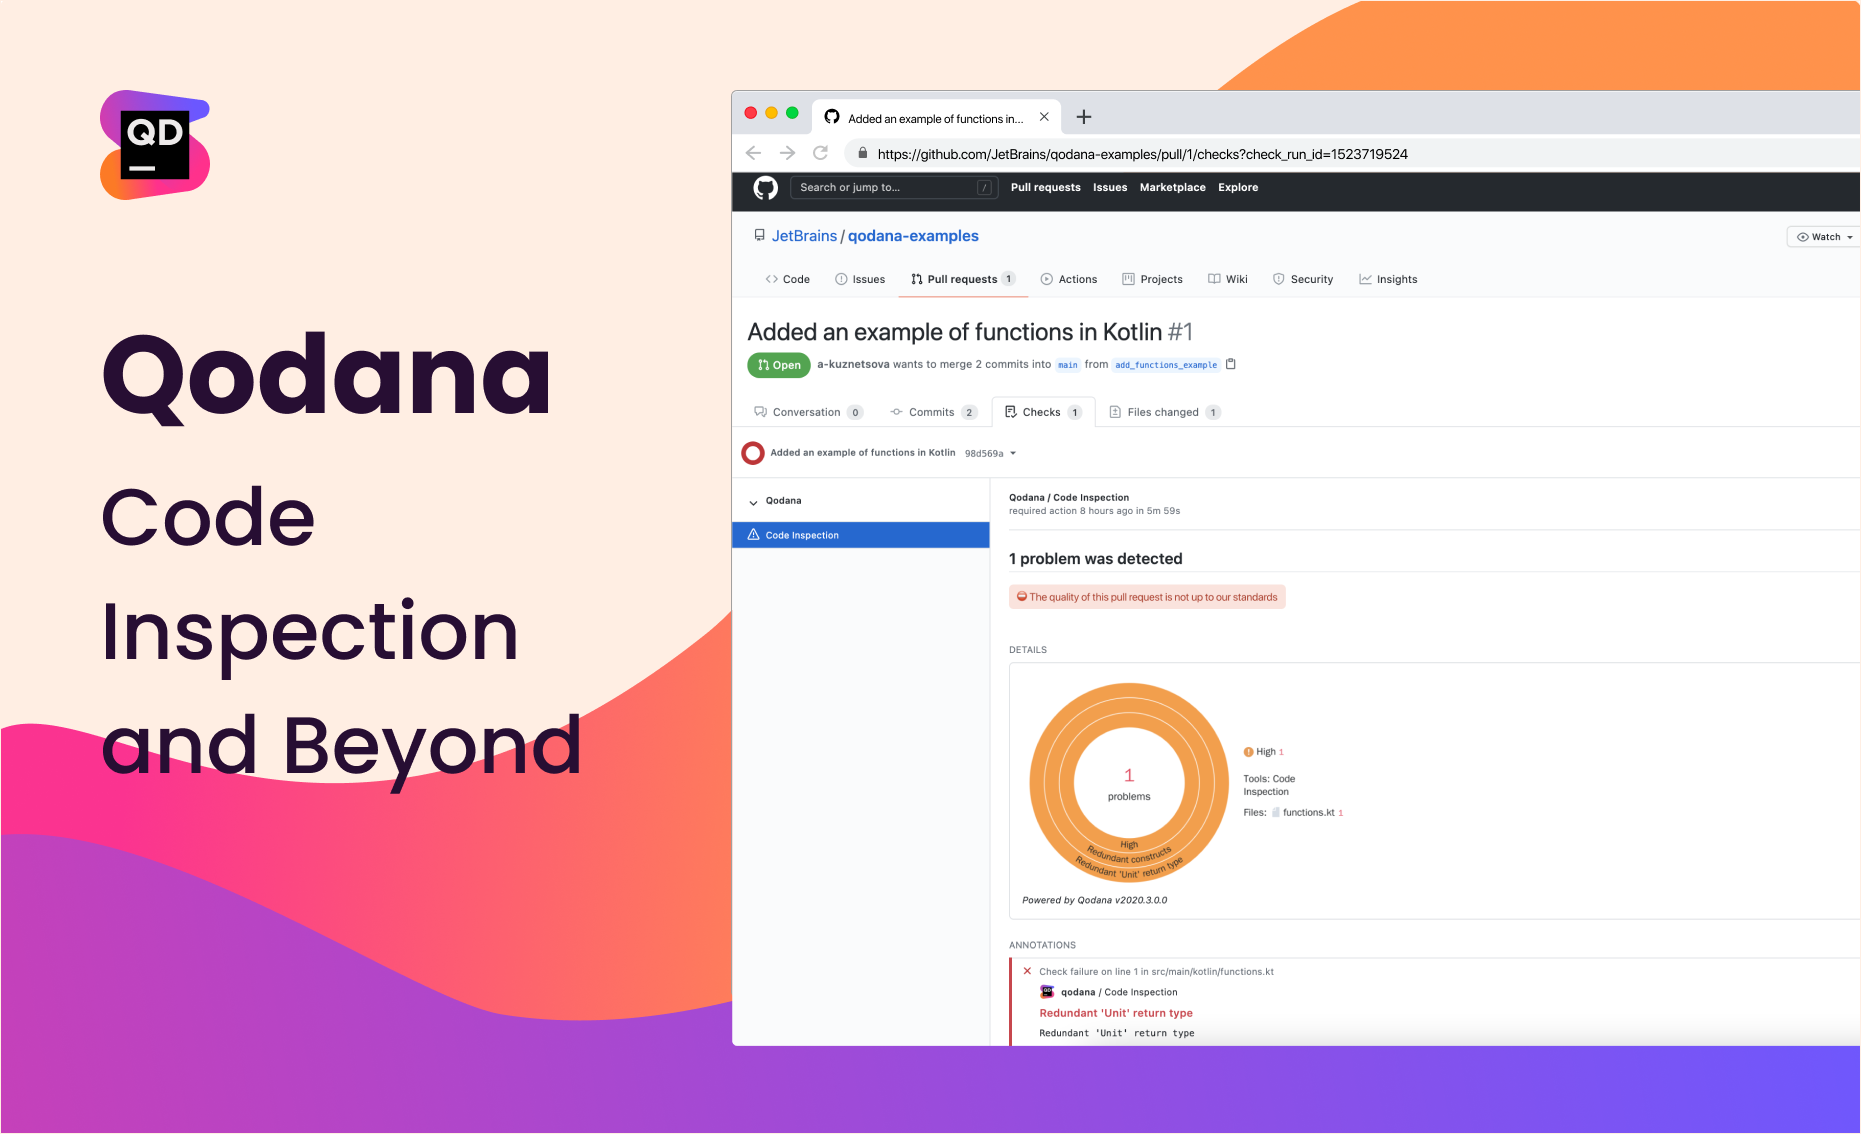
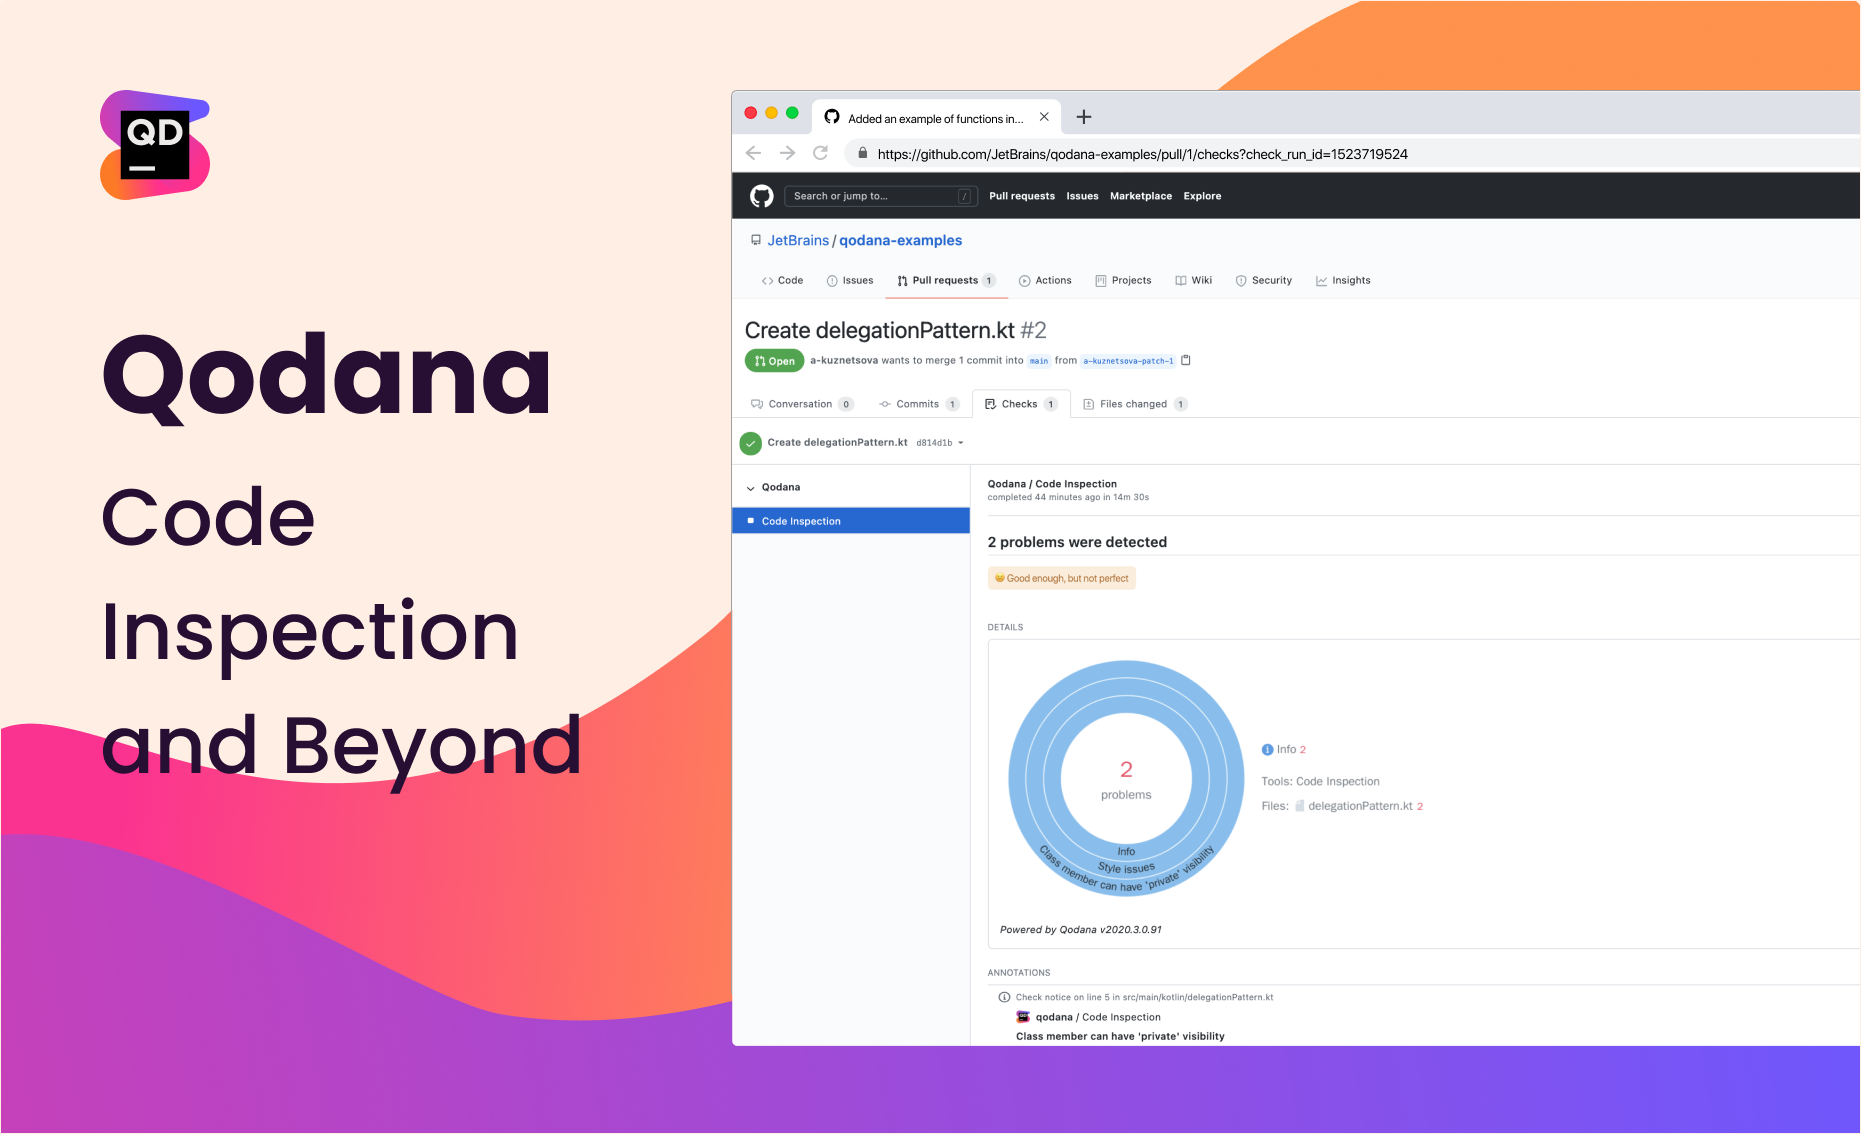
Updated Readme for Github App & Actions

Changed region(s): [[0.374, 0.2469, 0.748, 0.9259], [0.4052, 0.1543, 1.0, 0.216]]

diff --git a/GitHub/README.md b/GitHub/README.md
@@ -1,4 +1,4 @@
-# Qodana GitHub Actions & Application
+# Qodana GitHub Action & Application
 
 ![official JetBrains project](https://jb.gg/badges/official-flat-square.svg)
 
@@ -8,7 +8,10 @@
 
 Tools created by JetBrains are capable of detecting dozens of error-types and inconsistencies in your repository. 
 Their flexible mechanisms of resolving problems allow you to easier improve the code structure, conform your code to numerous guidelines and standards, detect performance issues, and so on. 
+
 And now with the Qodana App and Actions available in GitHub, all these features are just around the corner!
+
+The [Qodana Github App](#qodana-github-app) supports only public repositories. For private repositories use the [Qodana Github Action](#qodana-github-action).
 
 ## Qodana Github App
 
@@ -20,32 +23,28 @@ Once you install the app to your repository, it starts monitoring all its pull r
 If there is a problem in your pull request, Qodana App will add a comment to each problematic line.
 To get a deep summary, you can open the Qodana analytics results' page.
 
-Explore the Qodana results in this [pull request](https://github.com/JetBrains/qodana-examples/pull/1/checks?check_run_id=1523719524) to the qodana-examples repository.
+Explore the Qodana results in this [pull request](https://github.com/JetBrains/qodana-examples/pull/2/checks?check_run_id=1776577456) to the qodana-examples repository.
 
 ### How to start
 
-1. Install Qodana App from Marketplace to your repository: [Qodana Github App](https://github.com/marketplace/qodana).
-2. Make sure you are a public member of JetBrains or the Qodana-demo organization.
-    * [How to become a public member of a Github Organization](https://docs.github.com/en/free-pro-team@latest/github/setting-up-and-managing-your-github-user-account/publicizing-or-hiding-organization-membership)
-    * [JetBrains Github Organization](https://github.com/JetBrains)
-    * [Qodana-demo Github Organization](https://github.com/Qodana-demo)
-3. Create a new pull request and wait for the results.
-    * The build output will be accessible within a *Checks* tab on your pull request.
-    * See [this GitHub blog post](https://github.blog/2018-05-07-introducing-checks-api/) for more examples of Checks API.
+1. At the moment the Qodana Github App is available to a limited number of users.
+   Contact us at [qodana-support@jetbrains.com](mailto:qodana-support@jetbrains.com) or via [our issue tracker](https://youtrack.jetbrains.com/newIssue?project=QD) if you want to get the access to the Qodana Github App analysis.
+2. Make sure you are a [public member](https://docs.github.com/en/github/setting-up-and-managing-your-github-user-account/publicizing-or-hiding-organization-membership) of the [Qodana-demo organization](https://github.com/Qodana-demo).
+3. Install [Qodana Github App](https://github.com/apps/qodana/) to your repository.
+4. Create a new pull request and wait for the results.
+   * The build output will be accessible within a *Checks* tab on your pull request.
+
 
 ## Qodana Github Action
 
-Qodana Github Action is a more general tool for easier continuous code inspection.
+**Qodana Github Action** is a more general tool for easier continuous code inspection.
 Anyone with the write permission to a repository can set up a continuous code inspection with Qodana using GitHub Actions. 
 
 ### How to start
 
-Read the guidelines in [this repository](https://github.com/JetBrains/qodana-action).
+Follow the guidelines for the [Qodana Github Action](https://github.com/marketplace/actions/qodana-code-inspection) on Github Marketplace.
 
-![Qodana Github Action](../resources/qodana-github-action-result.png)
-
-
-#### Contact
+## Contact
 
 We are just beginning our journey and, as in case with any new project, we are eager to hear your feedback!
 Please, contact us at [qodana-support@jetbrains.com](mailto:qodana-support@jetbrains.com) or via [our issue tracker](https://youtrack.jetbrains.com/newIssue?project=QD).
